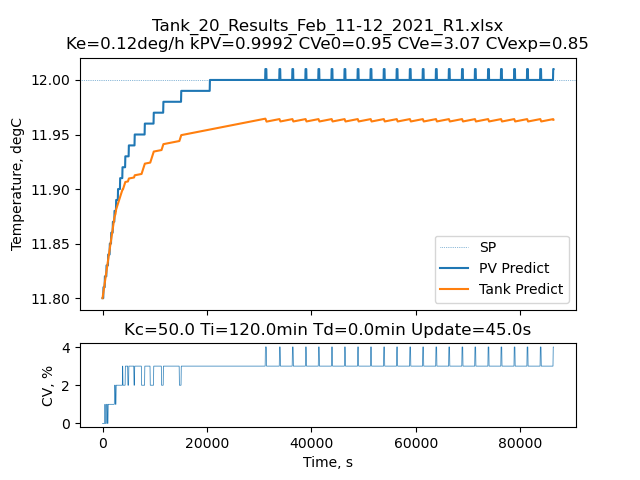
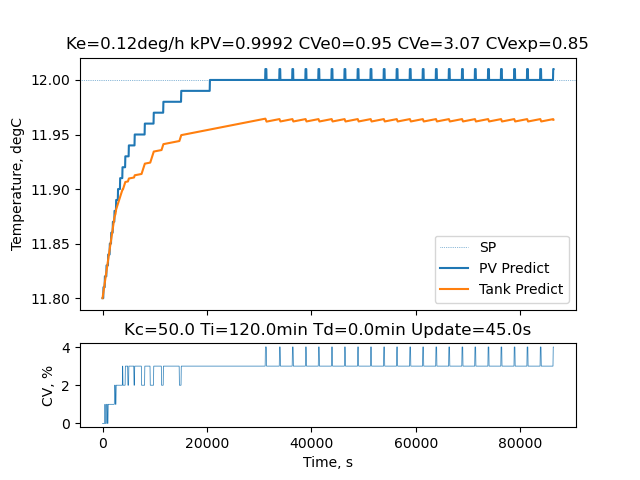
Remove XLSX from PID plot titles; remove debug print

Changed region(s): [[0.2188, 0.0312, 0.7812, 0.0625]]

diff --git a/pv_predict.py b/pv_predict.py
@@ -204,9 +204,8 @@ Model
       AT,xTt,xPV = self.model_one_timestep(AT,xTt,xPV,CVscalar)
 
     if self.do_plot if (None is do_plot) else do_plot:
-      title = '{0}\nKe={1}deg/h kPV={2} CVe0={3} CVe={4} CVexp={5}'.format(
-              os.path.basename(self.path)
-              ,self.Ke_per_h
+      title = 'Ke={0}deg/h kPV={1} CVe0={2} CVe={3} CVexp={4}'.format(
+              self.Ke_per_h
               ,self.kPV
               ,self.CVe0
               ,self.CVe
@@ -236,7 +235,6 @@ def process_args(argv):
 
 if "__main__" == __name__:
   args,keywords = process_args(sys.argv[1:])
-  print(keywords)
   cet = CET(*args,**keywords)
   if not ('no-model-data' in keywords):
     cet.model_data()
